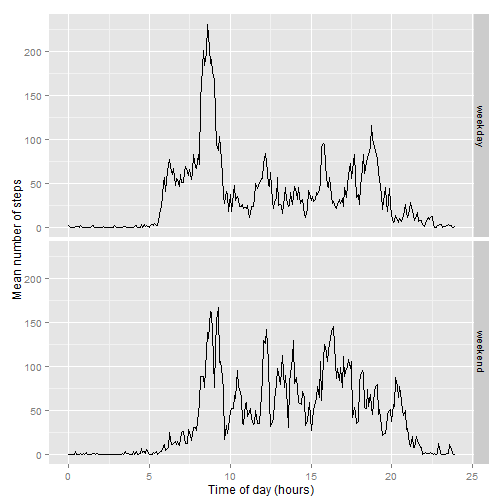
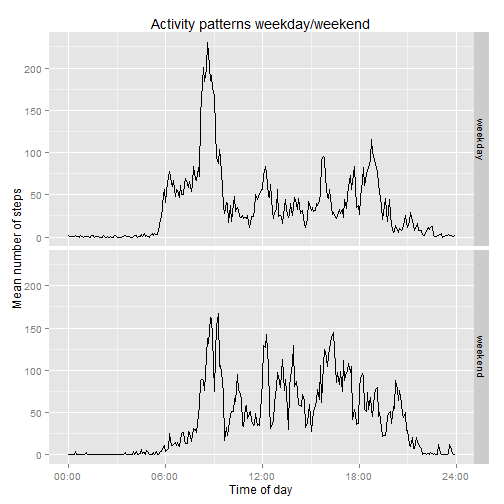
Some cleanup.

diff --git a/PA1_template.html b/PA1_template.html
@@ -205,34 +205,27 @@ hr {
 
 <p>In this section we read the data and do a bit of processing to simplify plotting.</p>
 
-<pre><code class="r"># Options for number formatting
+<pre><code class="r"># Options for number formatting, load libraries
 options(scipen=2, digits=2)
 library(data.table)
+library(ggplot2)
 # Read the data, unz helps us read the zip-file directly
 data &lt;- read.csv(unz(&quot;activity.zip&quot;, &quot;activity.csv&quot;), colClasses=c(&quot;numeric&quot;, &quot;Date&quot;, &quot;integer&quot;))
 DT &lt;- data.table(data)
-# Create a time field for plotting, since the interval is not suitable for this
-DT[, `:=`(ihour=as.numeric((interval%/%100)+(interval%%100)/60.0))]
-</code></pre>
-
-<pre><code>##        steps       date interval  ihour
-##     1:    NA 2012-10-01        0  0.000
-##     2:    NA 2012-10-01        5  0.083
-##     3:    NA 2012-10-01       10  0.167
-##     4:    NA 2012-10-01       15  0.250
-##     5:    NA 2012-10-01       20  0.333
-##    ---                                 
-## 17564:    NA 2012-11-30     2335 23.583
-## 17565:    NA 2012-11-30     2340 23.667
-## 17566:    NA 2012-11-30     2345 23.750
-## 17567:    NA 2012-11-30     2350 23.833
-## 17568:    NA 2012-11-30     2355 23.917
+# Create a time field (in hours) for plotting, since the interval is not suitable for this
+# Since this updates in place, wrap in invisible() to suppress output
+invisible(DT[, `:=`(ihour=as.numeric((interval%/%100)+(interval%%100)/60.0))])
+# Support function for plotting time values (7.75 -&gt;  07:45)
+timeFormatter &lt;- function(hours) {
+    h &lt;- hours%/%1
+    m &lt;- round(60*(hours%%1))
+    sprintf(&quot;%02d:%02d&quot;, h, m)
+}
 </code></pre>
 
 <h2>What is mean total number of steps taken per day?</h2>
 
-<pre><code class="r">library(ggplot2)
-# Create a sum of steps by date
+<pre><code class="r"># Create a sum of steps by date
 DS &lt;- DT[!is.na(steps),.(stepsum=sum(steps)), by=date]
 # Plot a histogram
 hist(DS$stepsum, xlab=&quot;Number of steps&quot;, main=&quot;Histogram of total daily steps&quot;)
@@ -249,14 +242,16 @@ mediansteps &lt;- median(DS[,stepsum])
 
 <h2>What is the average daily activity pattern?</h2>
 
-<pre><code class="r">AD &lt;- DT[, .(smean=mean(steps, na.rm=T)), .(interval,ihour)]
-with(AD, plot(ihour, smean, type=&quot;l&quot;, xlab=&quot;Time of day (hours)&quot;, ylab=&quot;Steps&quot;, main=&quot;Average daily activity pattern&quot;))
+<pre><code class="r"># Calculate averages for each interval
+AD &lt;- DT[, .(smean=mean(steps, na.rm=T)), .(interval,ihour)]
+
+# plot
+qplot(data=AD, x=ihour, y=smean, geom=&quot;line&quot;, xlab=&quot;Time of day&quot;,ylab=&quot;Mean number of steps&quot;) + scale_x_continuous(breaks=c(0,6,12,18,24), label=timeFormatter) + ggtitle(&quot;Average daily activity pattern&quot;)
 </code></pre>
 
[2 lines of base64/hex data omitted]
 
-<pre><code class="r">#with(AD, plot(interval, smean, type=&quot;l&quot;, xlab=&quot;Interval&quot;))
-# Find the top interval
+<pre><code class="r"># Find the top interval
 top_interval &lt;- AD[smean==(AD[, max(smean)]), interval]
 thour = top_interval %/% 100
 tmin = top_interval %% 100
@@ -269,7 +264,8 @@ tmin = top_interval %% 100
 <p>Impute missing values by using the mean for that interval.</p>
 
 <pre><code class="r"># How many missing values are there?
-DT[is.na(steps), .(&quot;Missing values&quot;=.N)]
+missingvals &lt;- DT[is.na(steps), .(&quot;Missing values&quot;=.N)]
+missingvals
 </code></pre>
 
 <pre><code>##    Missing values
@@ -293,25 +289,34 @@ hist(DSI$stepsum, xlab=&quot;Number of steps&quot;, main=&quot;Histogram of tota
 imediansteps &lt;- median(DSI[,stepsum])
 </code></pre>
 
-<p>The mean number of steps per day is 10766.19 and the median 10766.19 steps. Since we use the mean to impute the missing values, it is unchanged, but the median has changed, the old median was 10765.</p>
+<p>There were 2304 missing values before imputing.<br/>
+After imputing, the mean number of steps per day is 10766.19 and the median 10766.19 steps. Since we use the mean to impute the missing values, it is unchanged, but the median has changed, the old median was 10765.</p>
 
 <h2>Are there differences in activity patterns between weekdays and weekends?</h2>
 
-<pre><code class="r">daytype &lt;- function(dayname) {
+<p>To separate weekdays from weekends we add weekdays to the table, then apply a custom function to check if it is a weekday or weekend, storing the result as a factor.</p>
+
+<pre><code class="r"># Add weekday names to the table
+invisible(DTI[,`:=`(wd=weekdays(strptime(date, format=&quot;%Y-%m-%d&quot;)))])
+# Support function to map days to weekday/weekend
+daytype &lt;- function(dayname) {
     weekdays &lt;- c(&quot;Monday&quot;, &quot;Tuesday&quot;, &quot;Wednesday&quot;, &quot;Thursday&quot;, &quot;Friday&quot;)
     if(dayname %in% weekdays) {
         return(factor(&quot;weekday&quot;, c(&quot;weekday&quot;, &quot;weekend&quot;)))
     }
     factor(&quot;weekend&quot;, c(&quot;weekday&quot;, &quot;weekend&quot;))
 }
-
-invisible(DTI[,`:=`(wd=weekdays(strptime(date, format=&quot;%Y-%m-%d&quot;)))])
+# Apply the function above to the weekday data
 invisible(DTI[,we:=sapply(wd, daytype)])
+# Calculate means for each interval on weekdays/weekends
 WS &lt;- DTI[, .(smean=mean(steps, na.rm=T)), by=.(interval, ihour, we)]
-qplot(data=WS, x=ihour, y=smean, facets=we~., geom=&quot;line&quot;, xlab=&quot;Time of day (hours)&quot;,ylab=&quot;Mean number of steps&quot;)
+# Plot the result
+qplot(data=WS, x=ihour, y=smean, facets=we~., geom=&quot;line&quot;, xlab=&quot;Time of day&quot;,ylab=&quot;Mean number of steps&quot;) + scale_x_continuous(breaks=c(0,6,12,18,24), label=timeFormatter) + ggtitle(&quot;Activity patterns weekday/weekend&quot;)
 </code></pre>
 
[2 lines of base64/hex data omitted]
+
+<p>As can be seen in the plot, activity starts later on weekends but goes on for longer in the evening.</p>
 
 </body>
 

diff --git a/PA1_template.md b/PA1_template.md
@@ -12,35 +12,27 @@ In this section we read the data and do a bit of processing to simplify plotting
 
 
 ```r
-# Options for number formatting
+# Options for number formatting, load libraries
 options(scipen=2, digits=2)
 library(data.table)
+library(ggplot2)
 # Read the data, unz helps us read the zip-file directly
 data <- read.csv(unz("activity.zip", "activity.csv"), colClasses=c("numeric", "Date", "integer"))
 DT <- data.table(data)
-# Create a time field for plotting, since the interval is not suitable for this
-DT[, `:=`(ihour=as.numeric((interval%/%100)+(interval%%100)/60.0))]
-```
-
-```
-##        steps       date interval  ihour
-##     1:    NA 2012-10-01        0  0.000
-##     2:    NA 2012-10-01        5  0.083
-##     3:    NA 2012-10-01       10  0.167
-##     4:    NA 2012-10-01       15  0.250
-##     5:    NA 2012-10-01       20  0.333
-##    ---                                 
-## 17564:    NA 2012-11-30     2335 23.583
-## 17565:    NA 2012-11-30     2340 23.667
-## 17566:    NA 2012-11-30     2345 23.750
-## 17567:    NA 2012-11-30     2350 23.833
-## 17568:    NA 2012-11-30     2355 23.917
+# Create a time field (in hours) for plotting, since the interval is not suitable for this
+# Since this updates in place, wrap in invisible() to suppress output
+invisible(DT[, `:=`(ihour=as.numeric((interval%/%100)+(interval%%100)/60.0))])
+# Support function for plotting time values (7.75 ->  07:45)
+timeFormatter <- function(hours) {
+    h <- hours%/%1
+    m <- round(60*(hours%%1))
+    sprintf("%02d:%02d", h, m)
+}
 ```
 
 ## What is mean total number of steps taken per day?
 
 ```r
-library(ggplot2)
 # Create a sum of steps by date
 DS <- DT[!is.na(steps),.(stepsum=sum(steps)), by=date]
 # Plot a histogram
@@ -61,14 +53,16 @@ The mean numer of steps per day is 10766.19 and the median 10765 steps.
 ## What is the average daily activity pattern?
 
 ```r
+# Calculate averages for each interval
 AD <- DT[, .(smean=mean(steps, na.rm=T)), .(interval,ihour)]
-with(AD, plot(ihour, smean, type="l", xlab="Time of day (hours)", ylab="Steps", main="Average daily activity pattern"))
+
+# plot
+qplot(data=AD, x=ihour, y=smean, geom="line", xlab="Time of day",ylab="Mean number of steps") + scale_x_continuous(breaks=c(0,6,12,18,24), label=timeFormatter) + ggtitle("Average daily activity pattern")
 ```
 
 ![plot of chunk unnamed-chunk-3](figure/unnamed-chunk-3-1.png) 
 
 ```r
-#with(AD, plot(interval, smean, type="l", xlab="Interval"))
 # Find the top interval
 top_interval <- AD[smean==(AD[, max(smean)]), interval]
 thour = top_interval %/% 100
@@ -85,7 +79,8 @@ Impute missing values by using the mean for that interval.
 
 ```r
 # How many missing values are there?
-DT[is.na(steps), .("Missing values"=.N)]
+missingvals <- DT[is.na(steps), .("Missing values"=.N)]
+missingvals
 ```
 
 ```
@@ -111,12 +106,19 @@ hist(DSI$stepsum, xlab="Number of steps", main="Histogram of total daily steps")
 imeansteps <- mean(DSI[,stepsum])
 imediansteps <- median(DSI[,stepsum])
 ```
-The mean number of steps per day is 10766.19 and the median 10766.19 steps. Since we use the mean to impute the missing values, it is unchanged, but the median has changed, the old median was 10765.
+There were 2304 missing values before imputing.  
+After imputing, the mean number of steps per day is 10766.19 and the median 10766.19 steps. Since we use the mean to impute the missing values, it is unchanged, but the median has changed, the old median was 10765.
 
 
 ## Are there differences in activity patterns between weekdays and weekends?
 
+To separate weekdays from weekends we add weekdays to the table, then apply a custom function to check if it is a weekday or weekend, storing the result as a factor.
+
+
 ```r
+# Add weekday names to the table
+invisible(DTI[,`:=`(wd=weekdays(strptime(date, format="%Y-%m-%d")))])
+# Support function to map days to weekday/weekend
 daytype <- function(dayname) {
     weekdays <- c("Monday", "Tuesday", "Wednesday", "Thursday", "Friday")
     if(dayname %in% weekdays) {
@@ -124,11 +126,14 @@ daytype <- function(dayname) {
     }
     factor("weekend", c("weekday", "weekend"))
 }
-
-invisible(DTI[,`:=`(wd=weekdays(strptime(date, format="%Y-%m-%d")))])
+# Apply the function above to the weekday data
 invisible(DTI[,we:=sapply(wd, daytype)])
+# Calculate means for each interval on weekdays/weekends
 WS <- DTI[, .(smean=mean(steps, na.rm=T)), by=.(interval, ihour, we)]
-qplot(data=WS, x=ihour, y=smean, facets=we~., geom="line", xlab="Time of day (hours)",ylab="Mean number of steps")
+# Plot the result
+qplot(data=WS, x=ihour, y=smean, facets=we~., geom="line", xlab="Time of day",ylab="Mean number of steps") + scale_x_continuous(breaks=c(0,6,12,18,24), label=timeFormatter) + ggtitle("Activity patterns weekday/weekend")
 ```
 
 ![plot of chunk unnamed-chunk-5](figure/unnamed-chunk-5-1.png) 
+
+As can be seen in the plot, activity starts later on weekends but goes on for longer in the evening.
